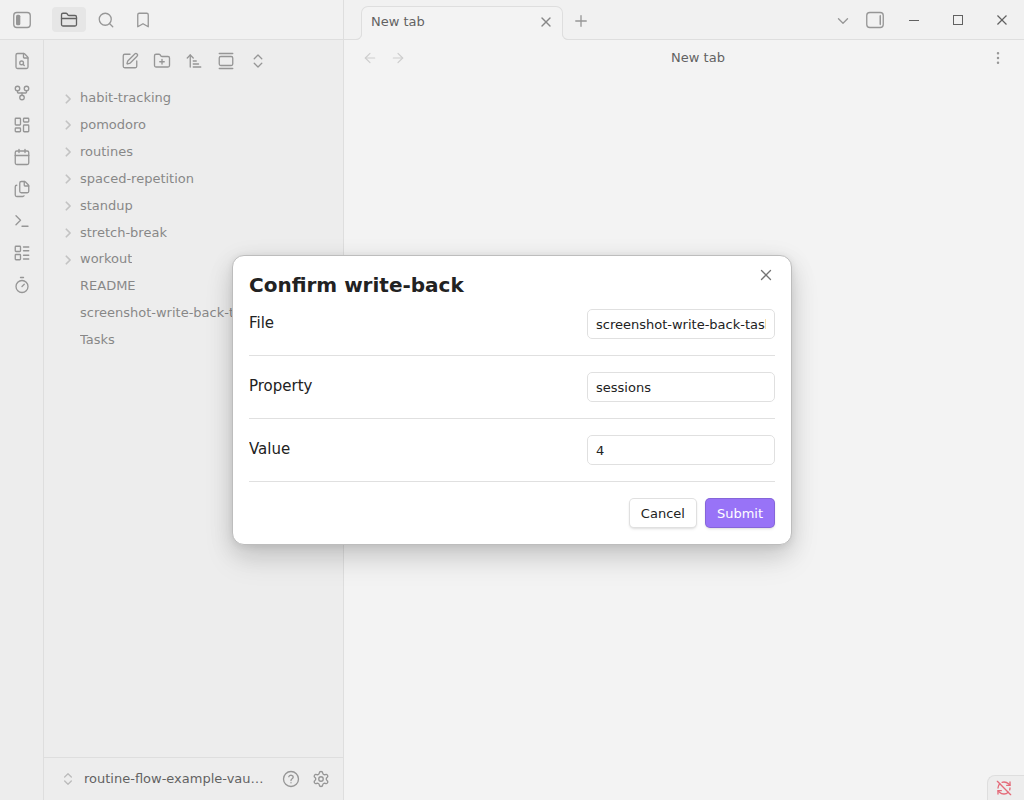
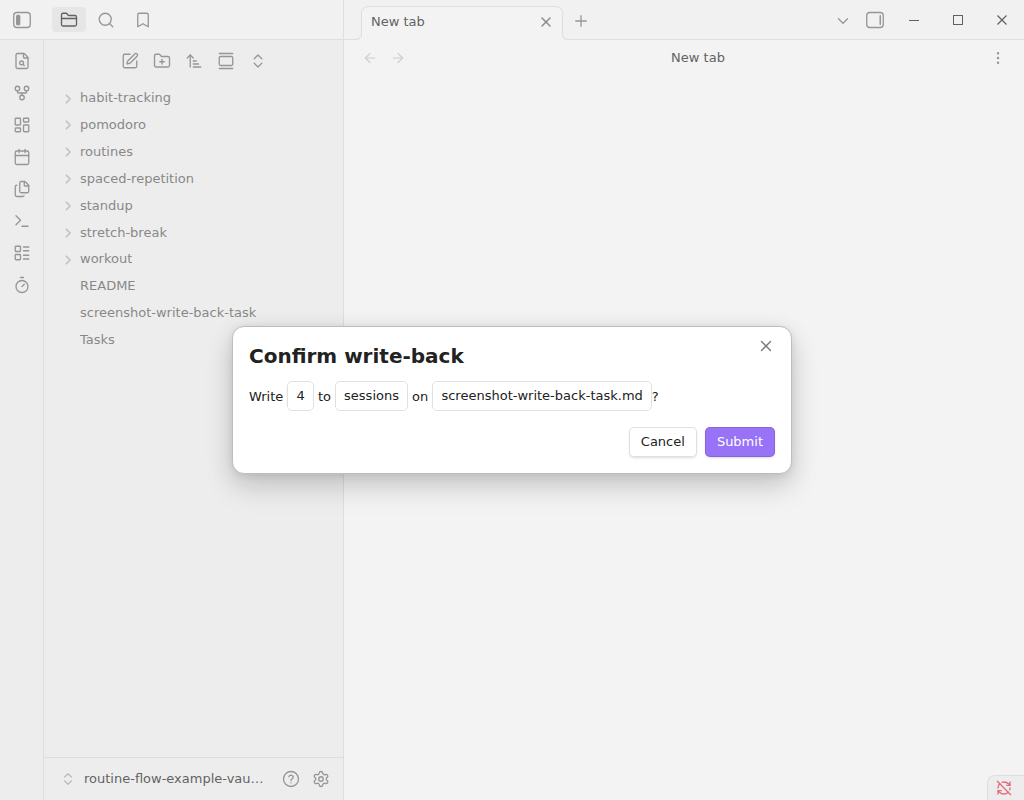
feat: sentence-style visual design pass for WriteBackModal (flow-gu1.19.18) (#137)
Replaces the three stacked Setting rows with the approved Stitch mockup's
"Write {value} to {property} on {file}?" sentence layout, each value an
inline editable chip (background-tinted via --background-modifier-form-field,
content-sized via field-sizing: content). Adds the routine-write-back-modal
scoped class DESIGN.md flags as a prerequisite for CSS-snippet targeting.

Changed region(s): [[0.2188, 0.3438, 0.7812, 0.7188], [0.5625, 0.3438, 0.7812, 0.4375]]

diff --git a/src/views/write-back-modal.ts b/src/views/write-back-modal.ts
@@ -1,4 +1,4 @@
-import { Modal, Setting, AbstractInputSuggest } from 'obsidian'
+import { Modal, AbstractInputSuggest } from 'obsidian'
 import type { App, TFile } from 'obsidian'
 import type { WriteBackFormValues, WriteBackPromptPort, WriteBackPromptResult } from '../domain/mutation/write-back-prompt'
 import { coerceWriteBackValue } from '../domain/mutation/write-back-prompt'
@@ -44,32 +44,60 @@ export class WriteBackModal extends Modal {
 
   onOpen(): void {
     this.setTitle('Confirm write-back')
+    this.modalEl.addClass('routine-write-back-modal')
 
-    new Setting(this.contentEl)
-      .setName('File')
-      .addText((text) => {
-        text.setValue(this.filePath).onChange((value) => {
-          this.filePath = value
-        })
-        const suggest = new VaultFileSuggest(this.app, text.inputEl)
-        suggest.onSelect((file) => {
-          text.setValue(file.path)
-          this.filePath = file.path
-          suggest.close()
-        })
-      })
+    const sentence = this.contentEl.createEl('p', { cls: 'routine-write-back-sentence' })
 
-    new Setting(this.contentEl)
-      .setName('Property')
-      .addText(text => text.setValue(this.property).onChange((value) => { this.property = value }))
+    sentence.createSpan({ text: 'Write ' })
+    const valueInput = sentence.createEl('input', {
+      type: 'text',
+      cls: 'routine-write-back-chip',
+      value: this.rawValue,
+      attr: { 'aria-label': 'Value' },
+    })
+    valueInput.addEventListener('input', () => {
+      this.rawValue = valueInput.value
+    })
 
-    new Setting(this.contentEl)
-      .setName('Value')
-      .addText(text => text.setValue(this.rawValue).onChange((value) => { this.rawValue = value }))
+    sentence.createSpan({ text: ' to ' })
+    const propertyInput = sentence.createEl('input', {
+      type: 'text',
+      cls: 'routine-write-back-chip',
+      value: this.property,
+      attr: { 'aria-label': 'Property' },
+    })
+    propertyInput.addEventListener('input', () => {
+      this.property = propertyInput.value
+    })
 
-    new Setting(this.contentEl)
-      .addButton(button => button.setButtonText('Cancel').onClick(() => this.close()))
-      .addButton(button => button.setButtonText('Submit').setCta().onClick(() => this.submit()))
+    sentence.createSpan({ text: ' on ' })
+    const fileInput = sentence.createEl('input', {
+      type: 'text',
+      cls: 'routine-write-back-chip routine-write-back-chip-file',
+      value: this.filePath,
+      attr: { 'aria-label': 'File' },
+    })
+    fileInput.addEventListener('input', () => {
+      this.filePath = fileInput.value
+    })
+    const suggest = new VaultFileSuggest(this.app, fileInput)
+    suggest.onSelect((file) => {
+      fileInput.value = file.path
+      this.filePath = file.path
+      suggest.close()
+    })
+
+    sentence.createSpan({ text: '?' })
+
+    const actions = this.contentEl.createDiv({ cls: 'routine-write-back-actions' })
+    actions.createEl('button', { type: 'button', text: 'Cancel' })
+      .addEventListener('click', () => this.close())
+    actions.createEl('button', { type: 'button', cls: 'mod-cta', text: 'Submit' })
+      .addEventListener('click', () => this.submit())
+
+    // File is the highest-stakes field (design.md #6: wrong file = wrong note edited), so it
+    // keeps initial focus regardless of its position in the sentence's reading order.
+    fileInput.focus()
   }
 
   onClose(): void {

diff --git a/styles.css b/styles.css
@@ -233,3 +233,39 @@
 .routine-queue-empty p {
   margin: 0;
 }
+
+/* ---- WriteBackModal (surface #6) -------------------------------------------------------------- */
+
+.routine-write-back-sentence {
+  margin: 0;
+  font-size: var(--font-ui-small);
+  line-height: 1.6;
+}
+
+/* Content-sized inline "chips", editable in place inside the sentence rather than stacked
+   Setting rows. Obsidian desktop bundles Chromium 142 (well past field-sizing:content's Chrome 123
+   baseline), so no JS fallback is added -- an unsupported mobile WebView just keeps the
+   min/max-inline-size as a fixed width, which still reads and works fine as a chip. */
+.routine-write-back-chip {
+  field-sizing: content;
+  width: auto;
+  min-inline-size: 3ch;
+  max-inline-size: 30ch;
+  padding: 0 var(--size-4-1);
+  border: 1px solid var(--background-modifier-border);
+  border-radius: var(--radius-s);
+  background-color: var(--background-modifier-form-field);
+  color: var(--text-normal);
+  font: inherit;
+}
+
+.routine-write-back-chip-file {
+  max-inline-size: 40ch;
+}
+
+.routine-write-back-actions {
+  display: flex;
+  justify-content: flex-end;
+  gap: var(--size-4-2);
+  margin-top: var(--size-4-4);
+}

diff --git a/e2e/write-back-modal.e2e.ts b/e2e/write-back-modal.e2e.ts
@@ -90,7 +90,7 @@ test.describe('write-back confirmation modal', () => {
     await completeFocusPhase(page)
     const modal = modalLocator(page)
 
-    await modal.locator('.setting-item', { hasText: 'Value' }).locator('input').fill('99')
+    await modal.getByRole('textbox', { name: 'Value' }).fill('99')
     await modal.getByRole('button', { name: 'Submit' }).click()
 
     await expect.poll(() => readSessionsValue(page)).toBe(99)

diff --git a/openspec/changes/design-foundations/DESIGN.md b/openspec/changes/design-foundations/DESIGN.md
@@ -103,9 +103,11 @@ This constrains implementation, not just color choice:
 
 - Every value in the tables above is a CSS custom property *reference*, never a hardcoded hex/px literal baked into a rule.
   This is already required by the theme-native decision, and it's also what makes user CSS snippets viable — a snippet can override a `var(--interactive-accent)` reference or a plugin class, but can't cleanly override a hardcoded literal.
-- One stable, documented CSS class namespace, applied consistently as a snippet target — but this is **only true for surface #1 today**.
-  `timer-view.ts` carries the `routine-*` prefix (`routine-timer-view`, `-timer-panel`, `-controls`, `-queue`, etc.), but `WriteBackModal` (#6), `RoutineReplaceModal` (#7), and `RoutineFlowSettingTab` (#8) currently add **no plugin-scoped class at all** — they render straight onto `contentEl`/`containerEl`, so a user's snippet could only reach them via Obsidian's generic `.modal`/`.setting-item` selectors, which hit every plugin's modals and settings tabs indiscriminately, not just this one.
-  Adding a root-level scoped class to each (e.g. via `modalEl.addClass(...)`/`containerEl.addClass(...)`) is a prerequisite for snippet-targeting those three surfaces, not something that already exists — treat it as part of each surface's implementation pass (flow-gu1.19.5 for #6, flow-gu1.62 for #7, flow-gu1.58 for #8), not a retrofit deferred to flow-q2p.
+- One stable, documented CSS class namespace, applied consistently as a snippet target.
+  `timer-view.ts` carries the `routine-*` prefix (`routine-timer-view`, `-timer-panel`, `-controls`, `-queue`, etc.).
+  **Resolved for surface #6** (flow-gu1.19.18): `WriteBackModal` now adds `routine-write-back-modal` via `modalEl.addClass(...)`.
+  `RoutineReplaceModal` (#7) and `RoutineFlowSettingTab` (#8) still add **no plugin-scoped class at all** — they render straight onto `contentEl`/`containerEl`, so a user's snippet could only reach them via Obsidian's generic `.modal`/`.setting-item` selectors, which hit every plugin's modals and settings tabs indiscriminately, not just this one.
+  Adding a root-level scoped class to each (e.g. via `modalEl.addClass(...)`/`containerEl.addClass(...)`) is a prerequisite for snippet-targeting those two remaining surfaces, not something that already exists — treat it as part of each surface's implementation pass (flow-gu1.62 for #7, flow-gu1.58 for #8), not a retrofit deferred to flow-q2p.
 - No JS-driven inline `style=` attributes for anything a snippet should be able to target — route all visual state through class toggles.
 - Any hardcoded fallback (e.g. for the rare theme that doesn't define `--color-orange`) must itself be overridable the same way: a plugin-scoped custom property, e.g. `--routine-flow-accent-paused: var(--color-orange, var(--text-warning));`, never an unconditional literal.
 - flow-q2p ("Custom CSS stylesheet support for user theming") is where an explicit override mechanism gets built.
